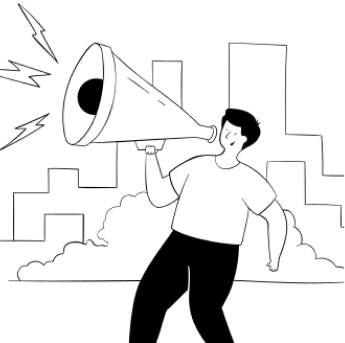
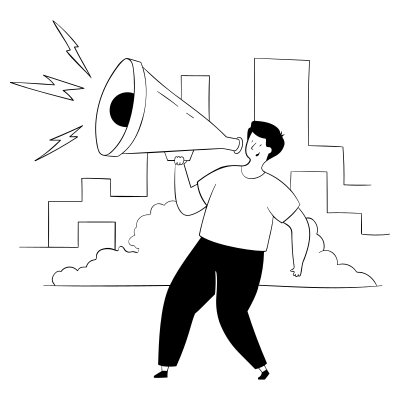
Bug fixes and optimizations

Changed region(s): [[0.0, 0.0, 1.0, 1.0], [0.9565, 0.758, 1.0, 0.7872]]

diff --git a/components/materials/intro-card/intro-card.jsx b/components/materials/intro-card/intro-card.jsx
@@ -13,7 +13,7 @@ const images = {
 };
 
 export function IntroCard(props) {
-    const { image, className = '', orientation = 'horizontal' } = props;
+    const { image, className = '', orientation = 'horizontal', style: cssStyle={} } = props;
 
     const is_horizontal = orientation == 'horizontal';
     const image_url = images[image];
@@ -26,7 +26,7 @@ export function IntroCard(props) {
                 'bg-color-white border-radius-5'.classNames() +
                 className
             }
-            style={{ backgroundImage: 'url(' + image_url + ')' }}
+            style={{ backgroundImage: 'url(' + image_url + ')', ...cssStyle }}
         >
             <div className={'content'.classNames(style)}>{props.children}</div>
             <div className={'image'.classNames(style)}>

diff --git a/components/materials/tabs/tabs.jsx b/components/materials/tabs/tabs.jsx
@@ -4,7 +4,7 @@ import { Conditional } from '../conditional.jsx';
 import style from './tabs.module.scss';
 
 export function Tabs(props) {
-    const { onNavigate, active, tabs = [], theme, className = '', style: cssStyle = {} } = props;
+    const { onNavigate, active, tabs = [], theme, className = '', style: cssStyle = {}, scrollIntoViewOnChange=false } = props;
     const active_index = tabs.findIndex((tab) => tab.id == active);
 
 	const ref = useRef();
@@ -14,6 +14,10 @@ export function Tabs(props) {
 	});
 
 	useEffect(()=>{
+		if ( ! scrollIntoViewOnChange ) {
+			return;
+		}
+		
 		if ( !state.mounted ) {
 			setState({...state, mounted: true});
 			return;

diff --git a/components/views/hrm/dashboard/main/main.jsx b/components/views/hrm/dashboard/main/main.jsx
@@ -22,6 +22,7 @@ export function DahboardMain() {
                     image="megaphone"
                     orientation="vertical"
                     className={'margin-bottom-20'.classNames()}
+					style={{ backgroundPosition: 'center bottom -41px'}}
                 >
                     <span
                         className={'d-block color-text font-size-28 font-weight-600 line-height-32 margin-bottom-15'.classNames()}

diff --git a/components/views/careers/single/apply/apply.jsx b/components/views/careers/single/apply/apply.jsx
@@ -224,7 +224,7 @@ export function Apply({ job = {} }) {
                     }
                 >
                     <div>
-                        <Tabs active={state.active_tab} tabs={steps} theme="sequence" />
+                        <Tabs active={state.active_tab} tabs={steps} theme="sequence" scrollIntoViewOnChange={true}/>
                     </div>
                 </div>
             </Conditional>

diff --git a/components/materials/intro-card/intro.module.scss b/components/materials/intro-card/intro.module.scss
@@ -22,7 +22,7 @@
         background-position: bottom;
 
         .image {
-            margin-top: 60px;
+            margin-top: 20px;
 
             img {
                 width: 100%;

diff --git a/classes/Controllers/ApplicationHandler.php b/classes/Controllers/ApplicationHandler.php
@@ -97,17 +97,20 @@ class ApplicationHandler {
 	 */
 	public static function getApplicationsList( array $data ) {
 		$filter             = $data['filter'];
-		$is_qualified       = 'disqualified' !== $filter;
+		$is_qualified       = 'disqualified' !== ( $filter['qualification'] ?? 'qualified' );
 		$applications       = Application::getApplications( $filter );
 		$qualified_count    = 0;
 		$disqualified_count = 0;
 
 		if ( $is_qualified ) {
-			$qualified_count    = count( $applications );
-			$disqualified_count = Application::getApplications( array_merge( $filter, array( 'qualification' => 'disqualified' ) ), true );
+			$qualified_count         = count( $applications );
+			$filter['qualification'] = 'disqualified';
+			$disqualified_count      = Application::getApplications( $filter, true );
+
 		} else {
-			$qualified_count    = Application::getApplications( array_merge( $filter, array( 'qualification' => 'qualified' ) ), true );
-			$disqualified_count = count( $applications );
+			$filter['qualification'] = 'qualified';
+			$qualified_count         = Application::getApplications( $filter, true );
+			$disqualified_count      = count( $applications );
 		}
 
 		wp_send_json_success(

diff --git a/classes/Models/Application.php b/classes/Models/Application.php
@@ -234,7 +234,7 @@ class Application {
 		$job_id        = $args['job_id'];
 		$stage_id      = $args['stage_id'] ?? null;
 		$disq_stage_id = Stage::getDisqualifyId( $job_id );
-		$get_qualified = 'disqualified' !== $args['qualification'];
+		$get_qualified = 'disqualified' !== ( $args['qualification'] ?? 'qualified' );
 
 		// Prepare limitters
 		$where_clause = "app.job_id={$job_id}";
